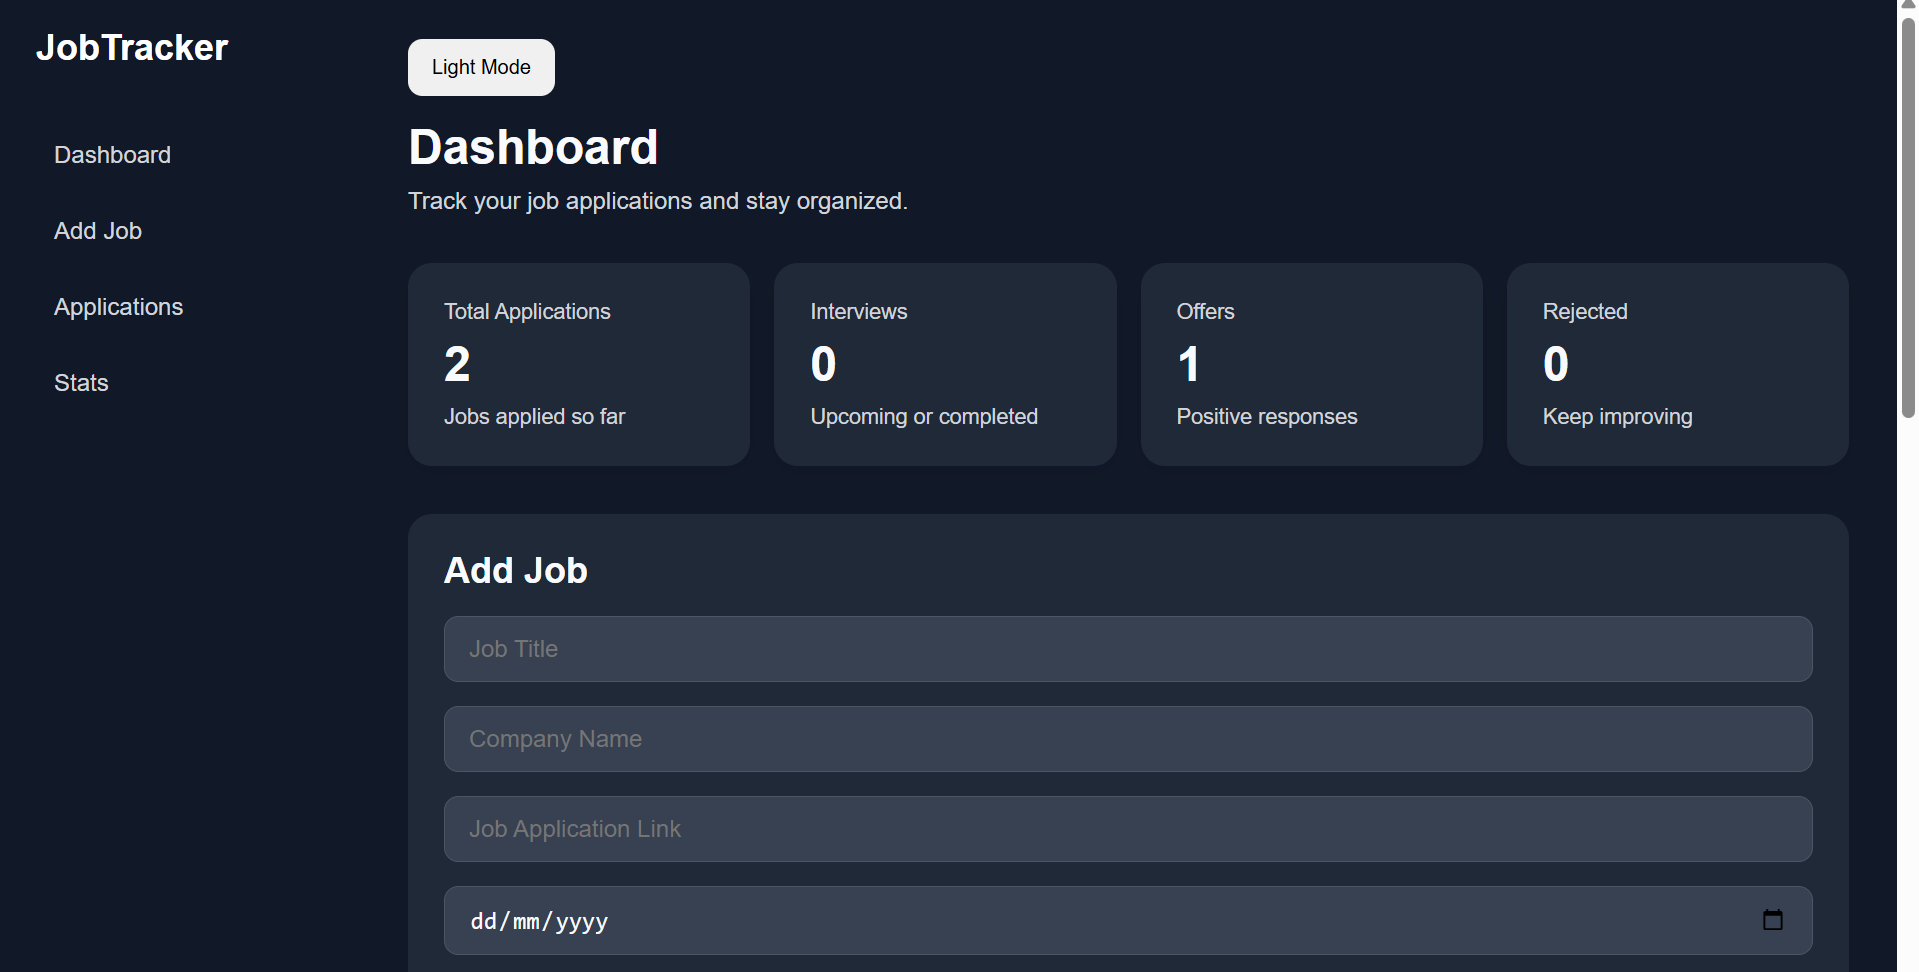
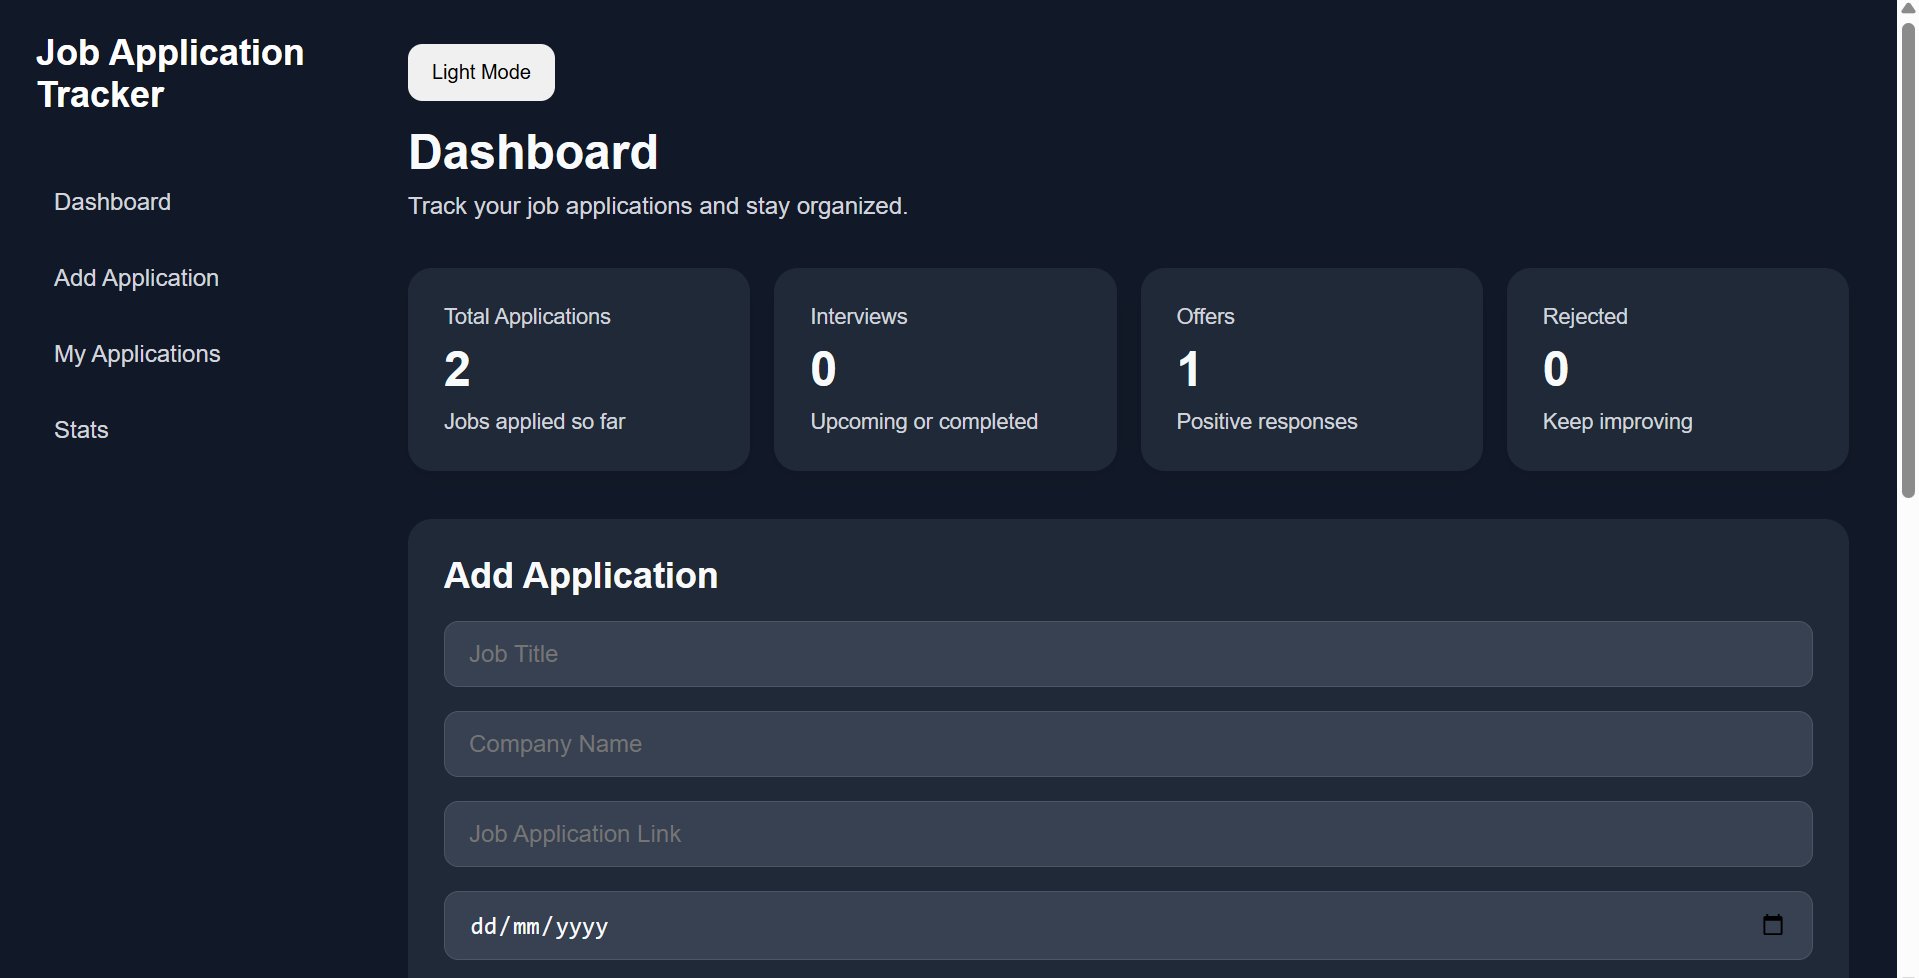
updated ss and readme

diff --git a/README.md b/README.md
@@ -1,0 +1,155 @@
+# 💼 Job Tracker App
+
+A modern job application tracking application built with **React** that helps users organize and manage their job search in one place.
+
+The application enables users to add, edit, and manage job applications, track their progress through different hiring stages, save interview notes, monitor application deadlines, and organize their job search through a clean, responsive, and intuitive user interface.
+
+---
+
+## 🚀 Live Demo
+
+🔗 **Live Demo:** https://job-tracker-app-drab.vercel.app/
+
+## 💻 GitHub Repository
+
+🔗 **GitHub:** https://github.com/Ujjwal-Darnal/Job-Tracker-App
+
+---
+
+## ✨ Features
+
+- ✅ Add new job applications
+- ✅ Edit existing job applications
+- ✅ Delete job applications
+- ✅ Track application status (Applied, Interview, Offer, Rejected)
+- ✅ Search jobs by company or job title
+- ✅ Filter jobs by application status
+- ✅ Sort jobs by application deadline
+- ✅ Dashboard with application statistics
+- ✅ Store interview notes
+- ✅ Save job posting links
+- ✅ Track application deadlines
+- ✅ Dark Mode support
+- ✅ Local Storage persistence
+- ✅ Responsive design for desktop and mobile devices
+
+---
+
+## 🛠 Tech Stack
+
+- ⚛️ React
+- 🟨 JavaScript (ES6+)
+- ⚡ Vite
+- 🎨 CSS3
+- 💾 Local Storage
+
+---
+
+## 📷 Screenshots
+
+### 📊 Dashboard
+
+![Dashboard](images/1-dashboard.png)
+
+---
+
+### ➕ Add Job Application
+
+![Add Job Application](images/2-add-job-application.png)
+
+---
+
+### 📋 My Applications
+
+![My Applications](images/3-my-applications.png)
+
+---
+
+### 🔍 Search & Filter
+
+![Search & Filter](images/4-search-and-filter.png)
+
+---
+
+### 🌙 Dark Mode
+
+![Dark Mode](images/5-darkmode.png)
+
+---
+
+## 📚 What I Learned
+
+Building this project helped me strengthen my React fundamentals by developing a complete CRUD application that solves a real-world problem.
+
+Throughout the project, I practiced:
+
+- Managing application state using React Hooks
+- Building reusable and maintainable React components
+- Working with controlled forms
+- Implementing complete CRUD functionality
+- Searching, filtering, and sorting application data
+- Conditional rendering
+- Persisting application data using Local Storage
+- Creating responsive layouts with CSS
+- Organizing scalable React project structures
+- Writing cleaner, more maintainable code
+
+---
+
+## ⚙️ Installation
+
+Clone the repository
+
+```bash
+git clone https://github.com/Ujjwal-Darnal/Job-Tracker-App.git
+```
+
+Navigate to the project directory
+
+```bash
+cd Job-Tracker-App
+```
+
+Install dependencies
+
+```bash
+npm install
+```
+
+Start the development server
+
+```bash
+npm run dev
+```
+
+Open your browser and visit:
+
+```
+http://localhost:5173
+```
+
+---
+
+## 🔮 Future Improvements
+
+- 🔐 User Authentication
+- ☁️ Cloud Database Integration (Firebase or Supabase)
+- 📄 Resume Upload
+- 📧 Email Follow-up Reminders
+- 📅 Calendar Integration
+- 📊 Advanced Analytics Dashboard
+- 🏢 Company Logos
+- 🔔 Push Notifications
+
+---
+
+## 👨💻 Author
+
+**Ujjwal Darnal**
+
+- GitHub: https://github.com/Ujjwal-Darnal
+- LinkedIn: https://www.linkedin.com/in/ujjwal-darnal/
+
+---
+
+⭐ If you found this project interesting, feel free to give the repository a star!